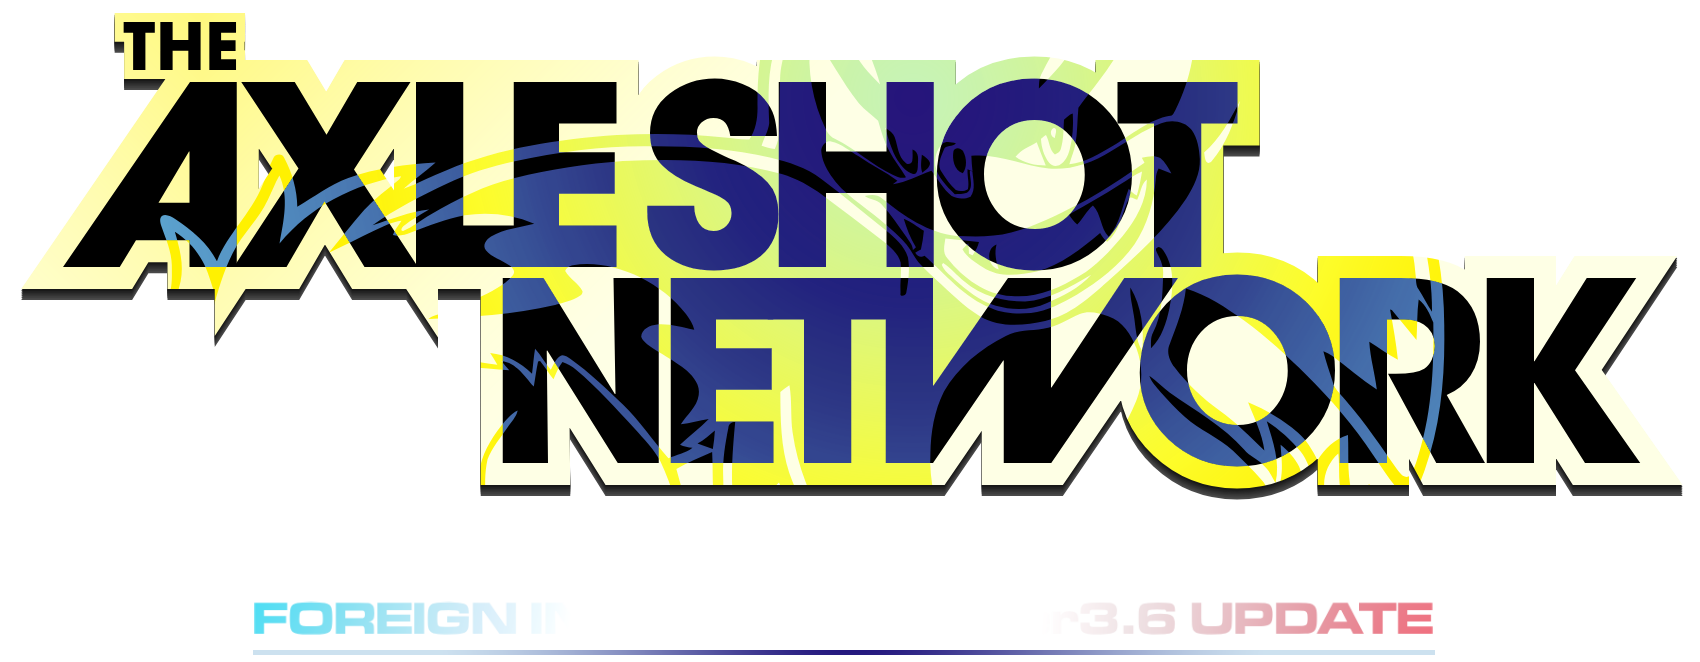
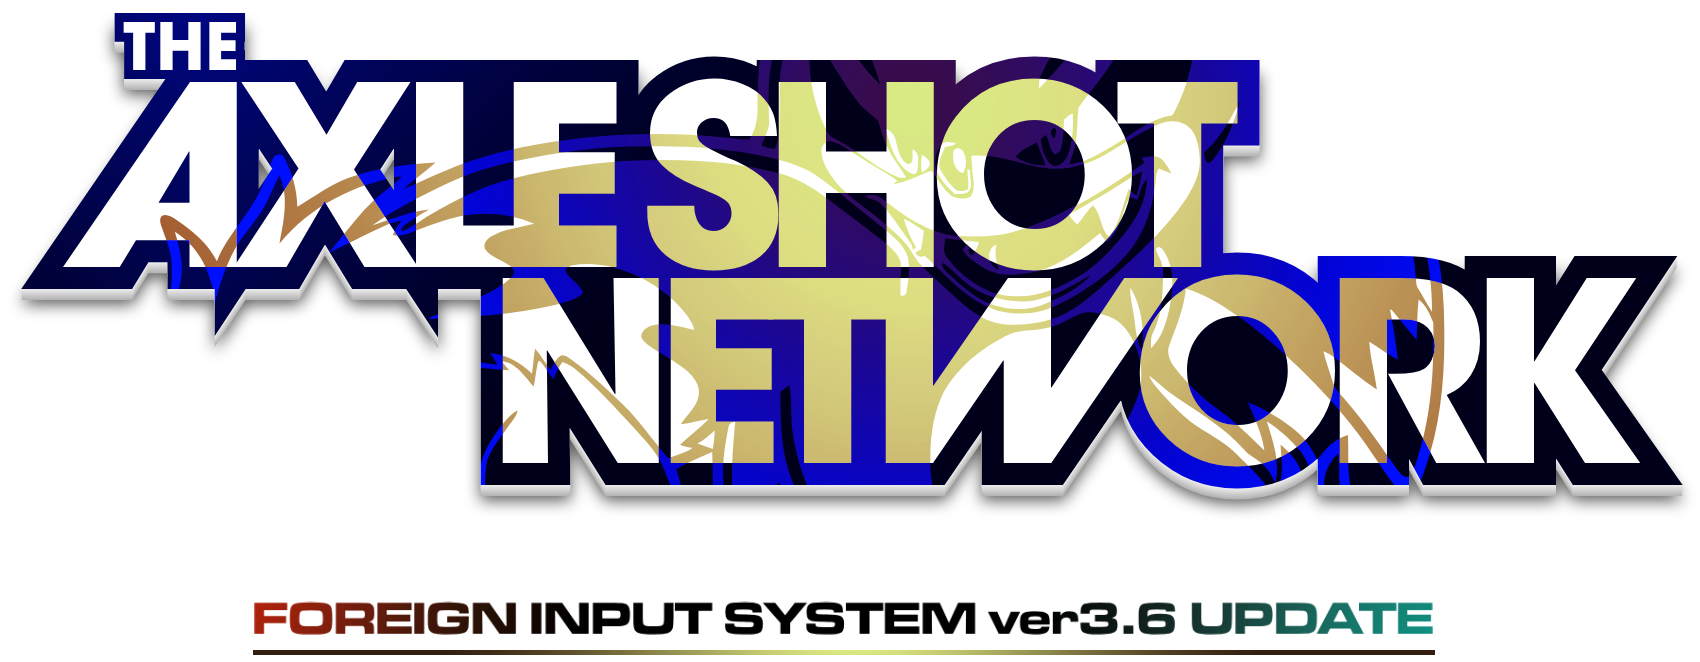
Update AGAIN GRAAAAAH

diff --git a/README.md b/README.md
@@ -1,6 +1,6 @@
 # **<u>The Axle Shot Network</u>, by ini of Cooliniau**
 
-![](README_assets/e4e47f69185699039408f8479f000ab68e02d173.png)
+![](README_assets/543911d0b6bfb6d4b36793a23280fa2e8849b094.png)
 
 The Axle Shot Network (ASN) is an *offensive & evasive mobility subsystem* made within <u>***Foreign Input System***</u>—which focused on expanding the combo capabilities of the Werehog. These two elements are showcased with the **Ricochet System** & **Axle Traversal System** respectively: the former leading to pinball-esque attacks, and the latter leading to a different means of on-field & in-combat traversal.
 